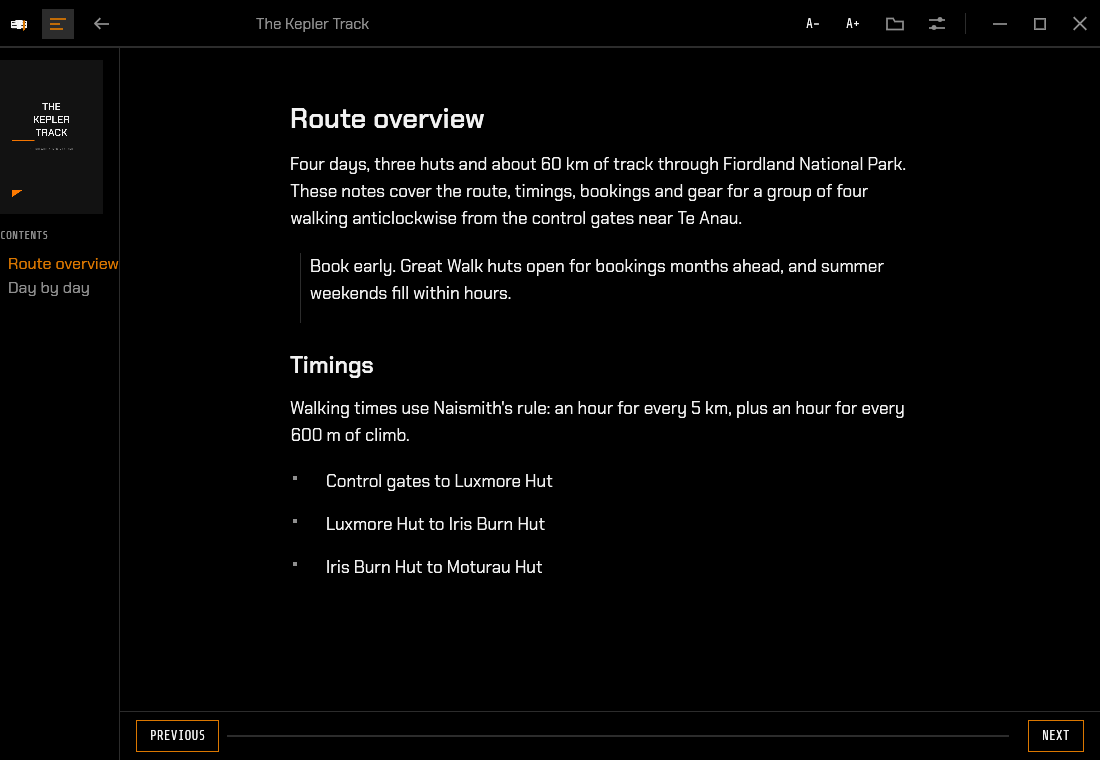
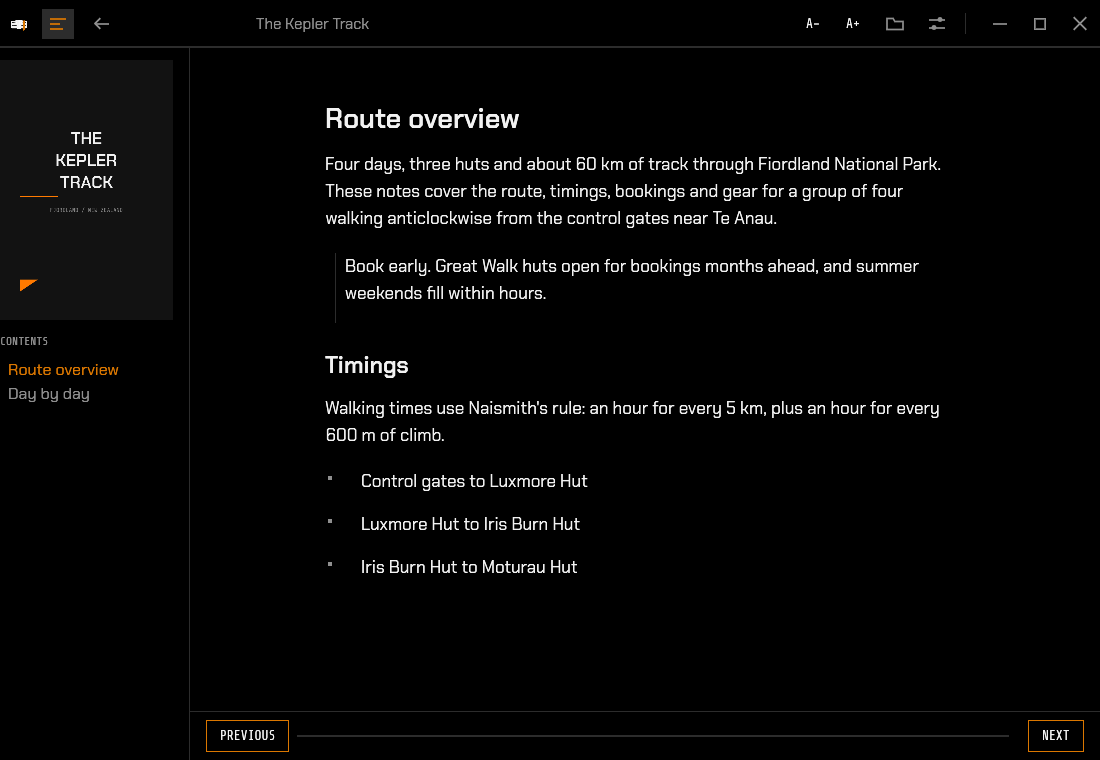
Keep the contents sidebar compact
Fix the sidebar at 190 px, truncate long chapter titles and refresh the screenshots. This is the 0.1.1 release.

diff --git a/src/ui.rs b/src/ui.rs
@@ -1,5 +1,5 @@
-//! Screens and widgets, styled per the project visual system §10 (dark only,
-//! solid black, square corners, one beak accent).
+//! Screens and widgets, styled with the project visual system: dark only,
+//! solid black, square corners, one beak accent.
 
 use std::collections::HashMap;
 use std::ops::Range;
@@ -19,6 +19,7 @@ use crate::theme;
 
 const WINDOW_ICON: &[u8] = include_bytes!("../assets/icon-256.png");
 const BAR_HEIGHT: f32 = 48.0;
+const TOC_WIDTH: f32 = 190.0;
 
 pub struct ReaderApp {
     pub state: State,
@@ -935,9 +936,9 @@ impl ReaderApp {
         if show_toc {
             egui::Panel::left("reader_toc")
                 .frame(Frame::NONE.fill(theme::BLACK))
-                .resizable(true)
-                .default_size(260.0)
+                .exact_size(TOC_WIDTH)
                 .show(ui, |ui| {
+                    ui.set_min_width(ui.available_width());
                     ui.add_space(12.0);
                     if let Some(texture) = self.texture_for(&ctx, "cover:__") {
                         ui.add(
@@ -1165,9 +1166,11 @@ fn toc_node(ui: &mut Ui, node: &TocNode, depth: usize, current: usize, jump: &mu
                     .font(theme::body_font(theme::BODY_SIZE - 1.0))
                     .color(colour),
             )
+            .truncate()
             .selectable(false)
             .sense(Sense::click()),
         );
+        let response = response.on_hover_text(&node.label);
         if response.clicked() {
             *jump = Some(node.chapter);
         }

diff --git a/tools/make_icon.py b/tools/make_icon.py
@@ -2,7 +2,7 @@
 """Generate the epub-reader app icon (product-specific symbol, not the penguin).
 
 An open book drawn flat on solid black with a beak-orange bookmark, per
-the project visual system §10.3 (square corners, solid token colours only).
+the project icon rules (square corners, solid token colours only).
 Run: python3 tools/make_icon.py   (needs pillow)
 Outputs: assets/icon-1024.png, assets/icon-256.png, assets/icon.ico
 """

diff --git a/src/theme.rs b/src/theme.rs
@@ -1,5 +1,5 @@
 //! Design tokens and egui styling, generated from `brand/tokens.json`.
-//! Values are kept in sync with the tokens file by hand; see the project visual system §10.1.
+//! Values are kept in sync with the tokens file by hand.
 
 use egui::{Color32, CornerRadius, FontData, FontDefinitions, FontFamily, FontId, Visuals};
 

diff --git a/README.md b/README.md
@@ -22,7 +22,7 @@ Reads **EPUB**, **KEPUB** (Kobo EPUB) and **MOBI**.
 
 - EPUB, KEPUB and MOBI
 - Integrated title bar with window controls (native traffic lights on macOS)
-- Cover and chapter jumps in the contents sidebar
+- Compact contents sidebar with cover and chapter jumps
 - Reading progress saved locally per book
 - Settings for UI scale, text size, line spacing and column width
 - Dark-only styling, with the NZ mark and font licences in Settings
